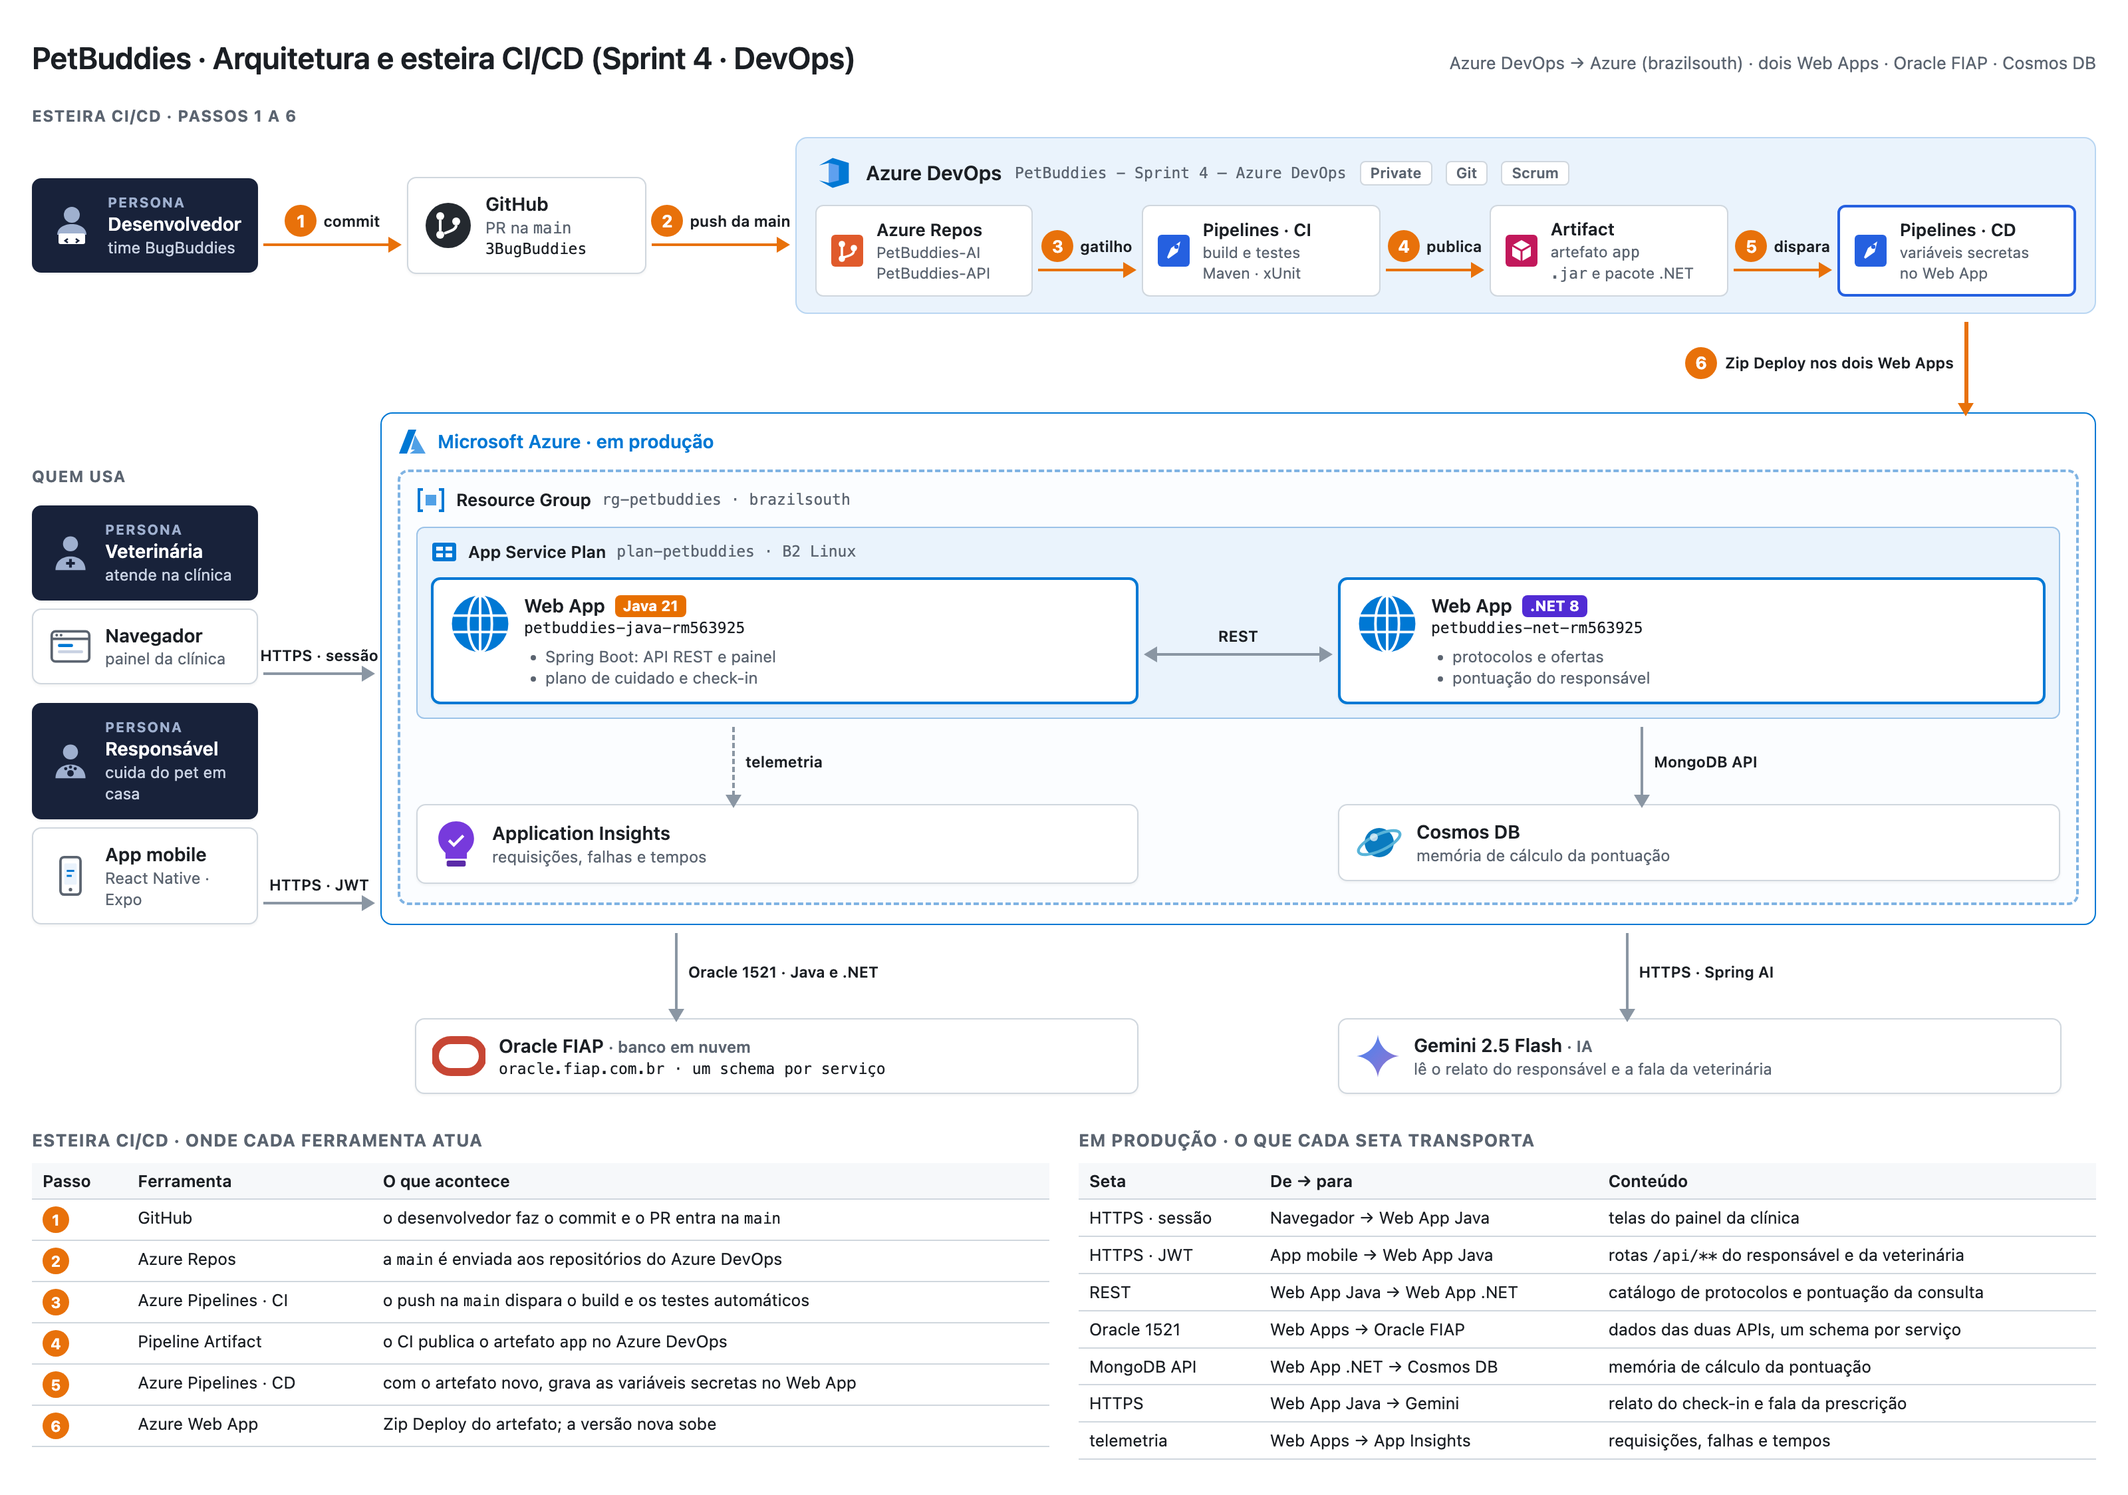
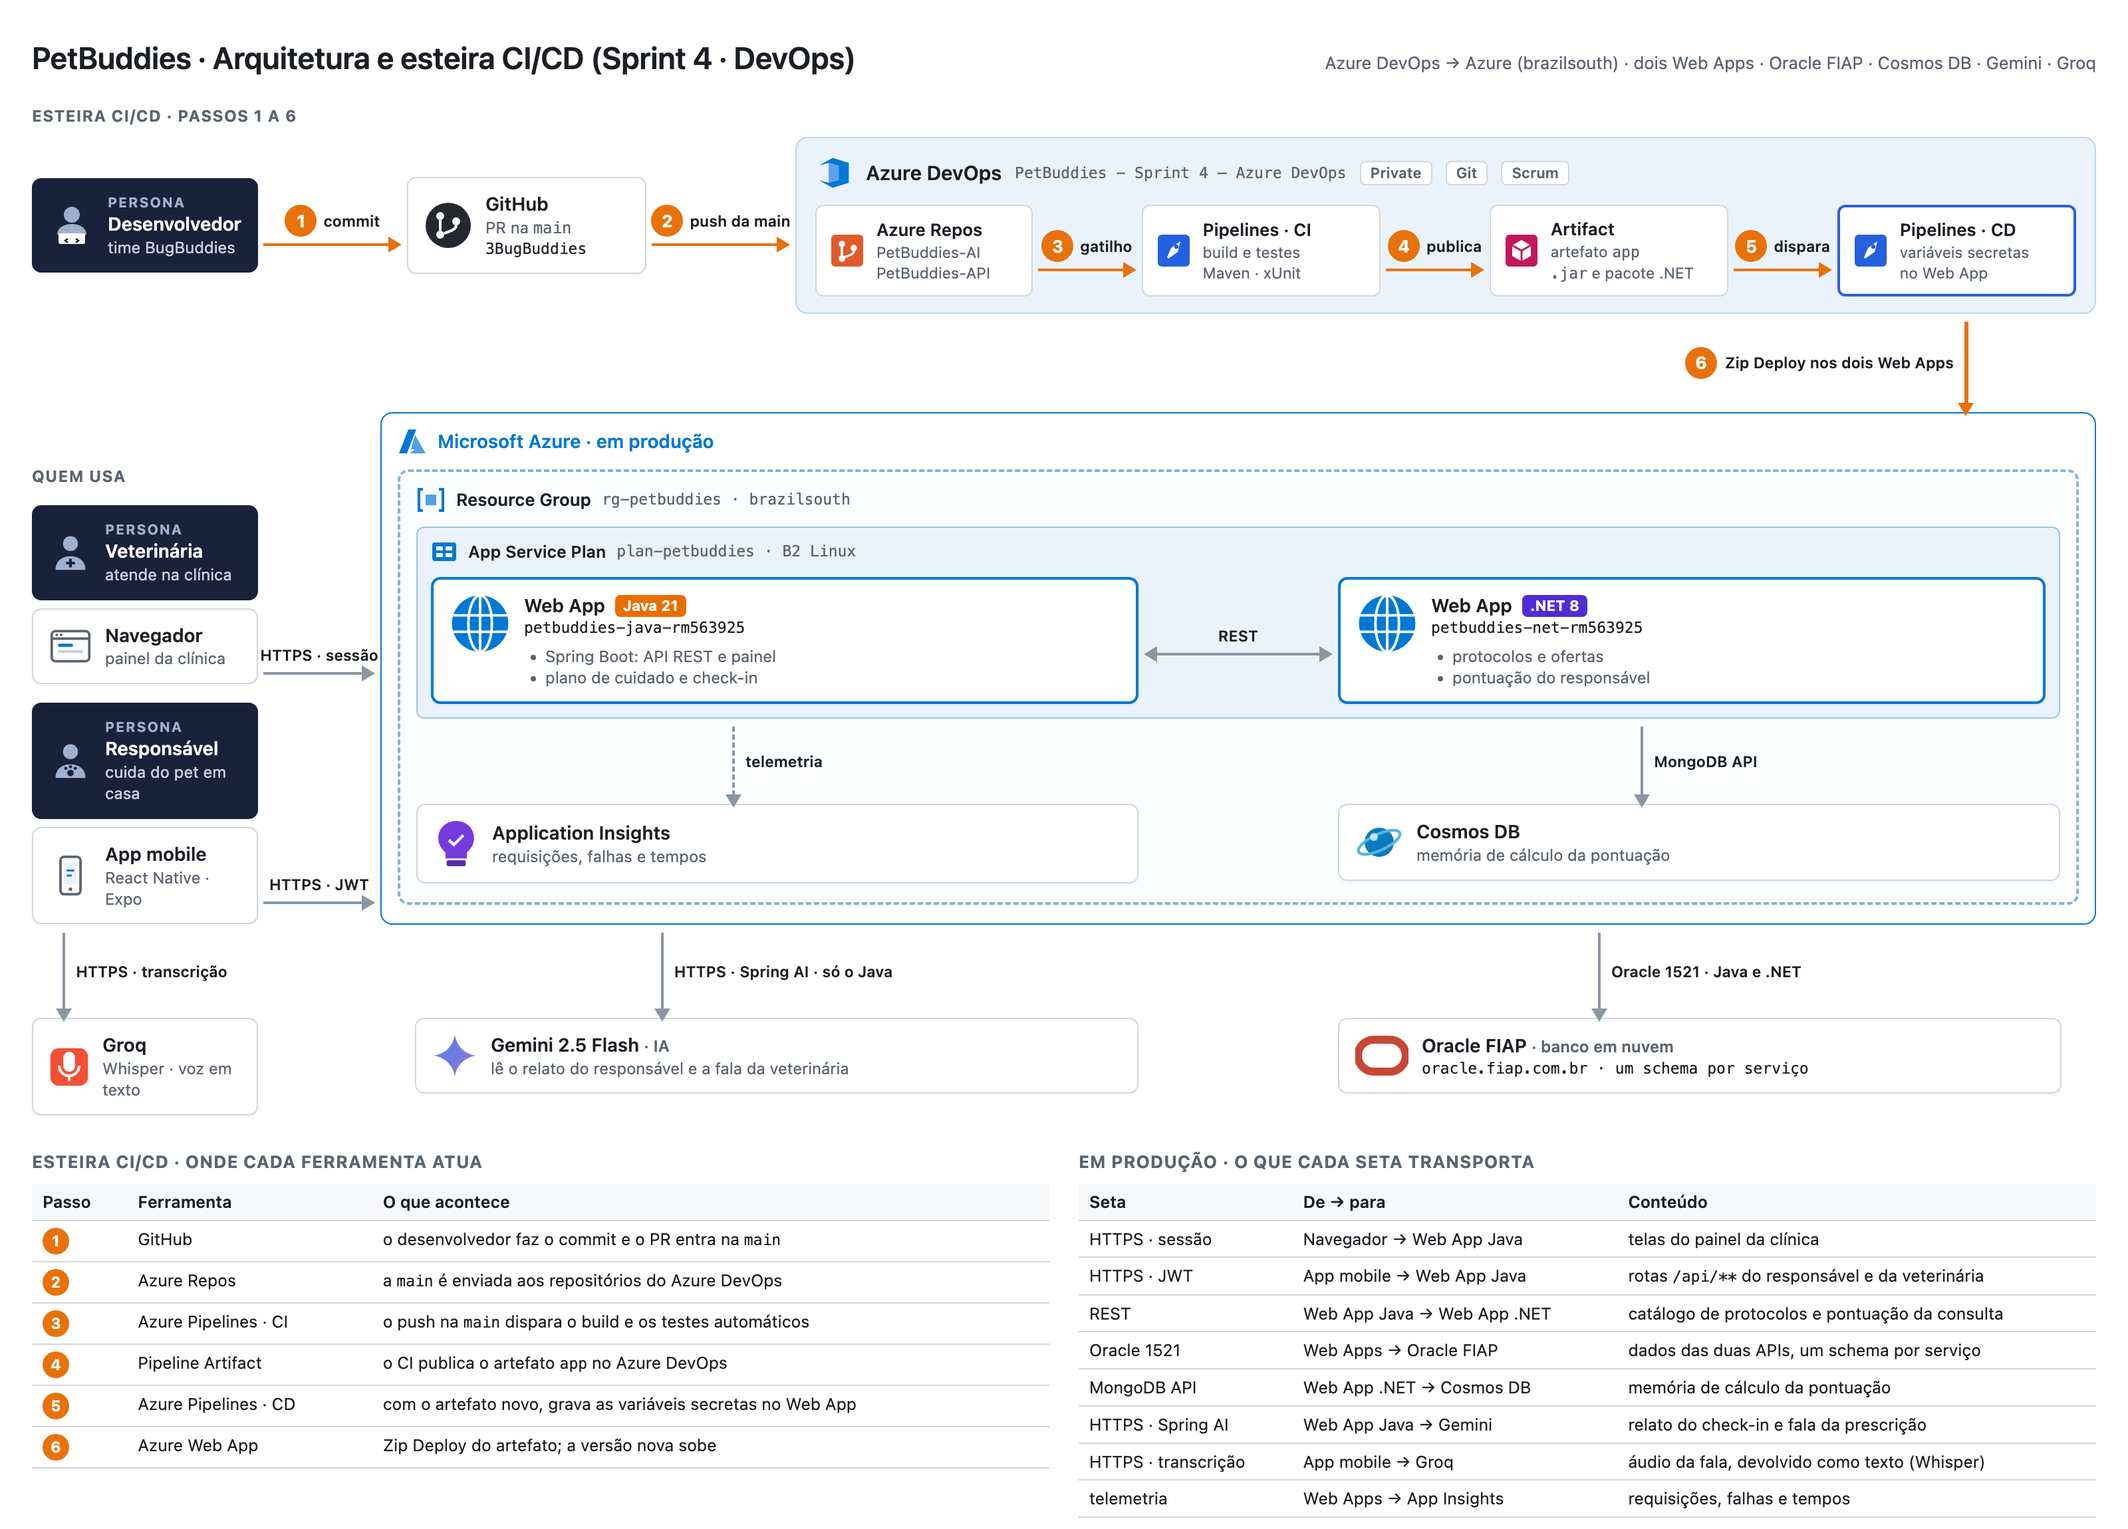
docs: seções da CP6 no README, Groq no diagrama e seta do Gemini saindo do Java

diff --git a/docs/arquitetura/arquitetura-devops.html b/docs/arquitetura/arquitetura-devops.html
@@ -143,7 +143,7 @@
 <div class="page">
   <header>
     <h1>PetBuddies · Arquitetura e esteira CI/CD (Sprint 4 · DevOps)</h1>
-    <p>Azure DevOps → Azure (brazilsouth) · dois Web Apps · Oracle FIAP · Cosmos DB</p>
+    <p>Azure DevOps → Azure (brazilsouth) · dois Web Apps · Oracle FIAP · Cosmos DB · Gemini · Groq</p>
   </header>
 
   <!-- ===== FAIXA 1: ESTEIRA ===== -->
@@ -368,27 +368,38 @@
 
   <!-- ===== FORA DA AZURE ===== -->
   <div class="out">
-    <div></div><div></div>
+    <div>
+      <div class="varrow" style="height:70px;"><div class="ln"></div><div class="lbl">HTTPS · transcrição</div></div>
+      <div class="card">
+        <svg width="30" height="30" viewBox="0 0 34 34" aria-hidden="true">
+          <rect x="1" y="1" width="32" height="32" rx="7" fill="#F55036"/>
+          <path d="M12 9a5 5 0 0 1 10 0v7a5 5 0 0 1-10 0z" fill="#fff"/>
+          <path d="M8.5 16a8.5 8.5 0 0 0 17 0M17 25v4" stroke="#fff" stroke-width="2.2" fill="none"/>
+        </svg>
+        <div><div class="t">Groq</div><div class="s">Whisper · voz em texto</div></div>
+      </div>
+    </div>
+    <div></div>
     <div>
       <div class="out-arrows">
-        <div class="varrow"><div class="ln"></div><div class="lbl">Oracle 1521 · Java e .NET</div></div>
+        <div class="varrow"><div class="ln"></div><div class="lbl">HTTPS · Spring AI · só o Java</div></div>
         <div></div>
-        <div class="varrow"><div class="ln"></div><div class="lbl">HTTPS · Spring AI</div></div>
+        <div class="varrow"><div class="ln"></div><div class="lbl">Oracle 1521 · Java e .NET</div></div>
       </div>
       <div class="out-row">
-        <div class="card">
-          <svg width="40" height="30" viewBox="0 0 40 30" aria-hidden="true">
-            <rect x="2" y="3" width="36" height="24" rx="12" fill="none" stroke="#C74634" stroke-width="6"/>
-          </svg>
-          <div><div class="t">Oracle FIAP <span class="s">· banco em nuvem</span></div><div class="n">oracle.fiap.com.br · um schema por serviço</div></div>
-        </div>
-        <div></div>
         <div class="card">
           <svg width="34" height="34" viewBox="0 0 34 34" aria-hidden="true">
             <defs><linearGradient id="gm" x1="0" y1="0" x2="1" y2="1"><stop offset="0" stop-color="#4285F4"/><stop offset="1" stop-color="#9B72CB"/></linearGradient></defs>
             <path d="M17 1c1 8.5 7.5 15 16 16-8.5 1-15 7.5-16 16-1-8.5-7.5-15-16-16 8.5-1 15-7.5 16-16z" fill="url(#gm)"/>
           </svg>
           <div><div class="t">Gemini 2.5 Flash <span class="s">· IA</span></div><div class="s">lê o relato do responsável e a fala da veterinária</div></div>
+        </div>
+        <div></div>
+        <div class="card">
+          <svg width="40" height="30" viewBox="0 0 40 30" aria-hidden="true">
+            <rect x="2" y="3" width="36" height="24" rx="12" fill="none" stroke="#C74634" stroke-width="6"/>
+          </svg>
+          <div><div class="t">Oracle FIAP <span class="s">· banco em nuvem</span></div><div class="n">oracle.fiap.com.br · um schema por serviço</div></div>
         </div>
       </div>
     </div>
@@ -417,7 +428,8 @@
         <tr><td>REST</td><td>Web App Java → Web App .NET</td><td>catálogo de protocolos e pontuação da consulta</td></tr>
         <tr><td>Oracle 1521</td><td>Web Apps → Oracle FIAP</td><td>dados das duas APIs, um schema por serviço</td></tr>
         <tr><td>MongoDB API</td><td>Web App .NET → Cosmos DB</td><td>memória de cálculo da pontuação</td></tr>
-        <tr><td>HTTPS</td><td>Web App Java → Gemini</td><td>relato do check-in e fala da prescrição</td></tr>
+        <tr><td>HTTPS · Spring AI</td><td>Web App Java → Gemini</td><td>relato do check-in e fala da prescrição</td></tr>
+        <tr><td>HTTPS · transcrição</td><td>App mobile → Groq</td><td>áudio da fala, devolvido como texto (Whisper)</td></tr>
         <tr><td>telemetria</td><td>Web Apps → App Insights</td><td>requisições, falhas e tempos</td></tr>
       </table>
     </div>

diff --git a/README.md b/README.md
@@ -42,7 +42,11 @@ são feitos pelo [`azure-pipelines.yml`](azure-pipelines.yml), que dispara a cad
 5. [Acesso do professor](#5-acesso-do-professor)
 6. [Pipelines CI/CD](#6-pipelines-cicd)
 7. [Recursos na Azure](#7-recursos-na-azure)
-8. [Evidência do CRUD no banco](#8-evidência-do-crud-no-banco)
+8. [How To · deploy na Azure](#8-how-to--deploy-na-azure)
+9. [Testes](#9-testes)
+10. [CRUD do Responsável](#10-crud-do-responsável)
+11. [Evidência do CRUD no banco](#11-evidência-do-crud-no-banco)
+12. [Credenciais de teste](#12-credenciais-de-teste)
 
 ---
 
@@ -62,13 +66,34 @@ conduta que a veterinária deixou assinada.
 | Camada | Tecnologia |
 |--------|------------|
 | Aplicação (este repositório) | Java 21, Spring Boot 3.4.5, Spring Data JPA, Spring Security com JWT, Thymeleaf, Flyway |
-| IA | Spring AI com Gemini 2.5 Flash |
+| IA | Spring AI com Gemini 2.5 Flash (Java); Groq Whisper para a transcrição de voz (app mobile) |
 | Serviço parceiro | `PetBuddies-API` em .NET 8, num segundo Web App |
 | Banco | Oracle da FIAP (as duas APIs) e Cosmos DB com a API do MongoDB (pontuação do .NET) |
 | Nuvem | Azure Web App Linux, App Service Plan B2, Application Insights, região brazilsouth |
 | DevOps | Azure DevOps: Boards (Scrum), Azure Repos, Azure Pipelines em YAML, Pipeline Artifacts |
 | Testes | JUnit 5 com Maven no Java; xUnit com `dotnet test` no .NET |
 | Clientes | navegador (painel da clínica) e app mobile em React Native com Expo |
+
+### Estrutura do repositório
+
+```
+PetBuddies-AI/
+├── azure-pipelines.yml          pipeline CI/CD (estágios CI e CD)
+├── infra/
+│   └── infra-app.sh             cria os recursos do Java na Azure (rodar uma vez)
+├── docs/
+│   ├── arquitetura/             fonte do desenho de arquitetura
+│   ├── banco/                   scripts Oracle (DDL, carga, pacotes)
+│   └── postman/                 coleção do Postman
+├── assets/figuras/              imagens do README
+├── Dockerfile · docker-compose.yml   Oracle local e a aplicação em container
+├── .env.example                 modelo das variáveis locais
+├── pom.xml
+└── src/
+    ├── main/java/…/petbuddies/  controllers, services, entidades, repositórios, segurança
+    ├── main/resources/          application.yml, migrations do Flyway e telas Thymeleaf
+    └── test/java/…/petbuddies/  testes unitários (JUnit)
+```
 
 ---
 
@@ -95,7 +120,8 @@ A figura do topo mostra a esteira e a produção. Fonte do desenho:
 - O Web App Java grava no **Oracle FIAP**, chama o **Gemini** pelo Spring AI e consulta o Web App .NET por REST
   (catálogo de protocolos e pontuação).
 - O Web App .NET usa o Oracle FIAP e o **Cosmos DB**, onde guarda a memória de cálculo da pontuação.
-- Os dois Web Apps mandam requisições, falhas e tempos ao **Application Insights**.
+- O app mobile manda o áudio da fala ao **Groq** (Whisper), que devolve o texto.
+- Cada Web App manda requisições, falhas e tempos ao próprio **Application Insights**.
 
 ---
 
@@ -118,7 +144,7 @@ O Cosmos DB (API do MongoDB) é um armazenamento auxiliar do serviço .NET, só 
 | Campo | Valor |
 |-------|-------|
 | Project name | PetBuddies - Sprint 4 – Azure DevOps |
-| Description | Projeto para entrega da Sprint 4 do professor João Menck, com os integrantes no formato `<RM> - <nome> - <turma>` |
+| Description | Projeto para entrega da Sprint 4 do professor João Menck<br>RM565339 - Felipe Yuiti Ishii - 2TDSR<br>RM563925 - Gabriel Nogueira Peixoto - 2TDSR<br>RM566154 - Giovanna Neri dos Santos - 2TDSR<br>RM565834 - Mariana Inoue - 2TDSR |
 | Visibility | Private |
 | Version control | Git |
 | Work item process | Scrum |
@@ -152,8 +178,9 @@ Arquivo: [`azure-pipelines.yml`](azure-pipelines.yml), no modo YAML. Agente `ubu
 Os resultados dos testes aparecem na aba **Tests** da execução, e o artefato `app` na aba **Artifacts**.
 
 A pipeline `petbuddies-net` do repositório `PetBuddies-API` segue o mesmo desenho: gatilho na `main`, CI com
-`dotnet build`, `dotnet test` e artefato publicado, e CD no environment `petbuddies-net` com Zip Deploy no Web App
-`petbuddies-net-rm563925`.
+`dotnet build`, `dotnet test` (xUnit) e artefato publicado, e CD no environment `petbuddies-net` com Zip Deploy no Web
+App `petbuddies-net-rm563925`. As variáveis secretas dela são `ORACLE_USER`, `ORACLE_PASS`, `PETBUDDIES_JWT_SECRET` e
+`MONGODB_CONNECTION_STRING`.
 
 ### Regras da pipeline
 
@@ -188,22 +215,124 @@ O pool de conexões (`SPRING_DATASOURCE_HIKARI_*`), o fuso (`TZ`) e o tempo de s
 
 ## 7. Recursos na Azure
 
+Script: [`infra/infra-app.sh`](infra/infra-app.sh), para o lado Java. O Web App do .NET e o Cosmos DB são criados pelo
+repositório `PetBuddies-API` e usam o mesmo resource group e o mesmo plano.
+
 | Recurso | Nome | SKU | Região |
 |---------|------|-----|--------|
 | Resource Group | `rg-petbuddies` | — | brazilsouth |
 | App Service Plan | `plan-petbuddies` | B2 Linux | brazilsouth |
-| Web App (Java) | `petbuddies-java-rm563925` | Java 21 | brazilsouth |
+| Web App (Java) | `petbuddies-java-rm563925` | `JAVA:21-java21` | brazilsouth |
+| Application Insights (Java) | `ai-petbuddies-java` | web | brazilsouth |
 | Web App (.NET) | `petbuddies-net-rm563925` | .NET 8 | brazilsouth |
-| Application Insights | um por Web App | — | brazilsouth |
-| Cosmos DB (API do MongoDB) | `cosmos-petbuddies-rm563925` | free tier | — |
+| Application Insights (.NET) | `ai-petbuddies-net` | web | brazilsouth |
+| Cosmos DB (API do MongoDB 4.2) | `cosmos-petbuddies-rm563925` | free tier | brazilsouth |
 | Banco | Oracle da FIAP | — | fora da Azure |
+
+O script:
+
+- registra os providers `Microsoft.Web`, `Microsoft.Insights` e `Microsoft.OperationalInsights`;
+- cria o resource group, o Application Insights, o plano Linux e o Web App Java 21, com o Always On ligado;
+- grava no Web App só as app settings do Application Insights, que não são segredo;
+- conecta o Web App ao Application Insights.
+
+O script cria o plano em B1. Em produção, o plano roda em B2.
+
+Banco, Gemini, JWT e a URL do .NET não ficam no script: a pipeline grava esses valores a partir das variáveis secretas.
 
 ---
 
-## 8. Evidência do CRUD no banco
+## 8. How To · deploy na Azure
 
-O CRUD do vídeo é o do **Responsável**: pelo painel (tela **Responsáveis**) ou pela API em `/api/responsavel`
-(`GET`, `GET /{id}`, `POST`, `PUT /{id}`, `DELETE /{id}`). Cada operação é conferida com um SELECT no Oracle da FIAP,
+Pré-requisitos: Azure CLI, acesso à assinatura e ao projeto do Azure DevOps.
+
+**1. Entrar na assinatura certa**
+
+```bash
+az login
+az account show
+az account set --subscription "<nome-da-assinatura>"   # se precisar trocar
+```
+
+**2. Criar a infraestrutura (uma vez)**
+
+```bash
+bash infra/infra-app.sh
+```
+
+**3. Criar a service connection**
+
+Azure DevOps → Project settings → Service connections → New service connection → Azure Resource Manager.
+Escopo: assinatura. Nome: `sc-petbuddies-azure`.
+
+**4. Criar a pipeline**
+
+Pipelines → New pipeline → Azure Repos Git → repositório `PetBuddies-AI` → *Existing Azure Pipelines YAML file* →
+`/azure-pipelines.yml`.
+
+**5. Cadastrar as variáveis**
+
+Edit → Variables. Cadastre `NOME_WEBAPP`, `ORACLE_URL` e `PETNETAPI_URL`. Cadastre como secretas ("Keep this value
+secret"): `ORACLE_USER`, `ORACLE_PASSWORD`, `GEMINI_API_KEY` e `PETBUDDIES_JWT_SECRET`. A tabela está em
+[Variáveis da pipeline](#variáveis-da-pipeline).
+
+**6. Rodar a pipeline**
+
+Faça um push na `main` ou clique em Run pipeline. O estágio CI compila e roda os testes (aba **Tests**) e publica o
+artefato (aba **Artifacts**). O estágio CD publica no Web App. Na primeira execução, autorize o uso da service
+connection e do environment `petbuddies-java`, se o Azure DevOps pedir.
+
+**7. Acessar o app**
+
+https://petbuddies-java-rm563925.azurewebsites.net
+
+Na primeira subida, o Flyway cria as tabelas no Oracle e semeia os dados de demonstração. `GET /actuator/health`
+responde `UP` quando o banco está no ar.
+
+---
+
+## 9. Testes
+
+`mvn test` roda os testes unitários (JUnit 5, sem banco e sem rede), em `src/test/java/`: o resumo do cuidado e o
+cálculo da pontuação do responsável, e a exportação do dataset. A pipeline roda os mesmos testes no `clean package` e
+publica o resultado na aba **Tests**, com o título "Testes de Código".
+
+---
+
+## 10. CRUD do Responsável
+
+Base URL: `https://petbuddies-java-rm563925.azurewebsites.net`. Autenticação: `POST /api/auth/login` devolve o token;
+as demais rotas usam `Authorization: Bearer <token>`. O mesmo CRUD está no painel, na tela **Responsáveis**.
+
+| Método | Rota | Descrição |
+|--------|------|-----------|
+| `POST` | `/api/auth/login` | devolve o token JWT |
+| `GET` | `/api/responsavel?nome=` | lista os responsáveis, com filtro opcional por nome |
+| `GET` | `/api/responsavel/{id}` | busca por id |
+| `POST` | `/api/responsavel` | cria (201) |
+| `PUT` | `/api/responsavel/{id}` | atualiza (200) |
+| `DELETE` | `/api/responsavel/{id}` | exclui (204) |
+
+Corpo do login:
+
+```json
+{ "login": "ana@clinica.com", "senha": "petbuddies123" }
+```
+
+Corpo do `POST` e do `PUT`:
+
+```json
+{ "nome": "Marina Souza", "telefone": "11988887777", "email": "marina@email.com", "endereco": "Rua Augusta, 1500, São Paulo" }
+```
+
+A coleção do Postman com todas as rotas está em
+[`docs/postman/petbuddies-ai-java.postman_collection.json`](docs/postman/petbuddies-ai-java.postman_collection.json).
+
+---
+
+## 11. Evidência do CRUD no banco
+
+No vídeo, cada operação do [CRUD do Responsável](#10-crud-do-responsável) é conferida com um SELECT no Oracle da FIAP,
 no schema do Java.
 
 ```sql
@@ -219,11 +348,16 @@ SELECT * FROM T_PB_RESPONSAVEL WHERE ID_RESPONSAVEL = <id>;
 SELECT "version", "description", "success" FROM "flyway_schema_history" ORDER BY "installed_rank";
 ```
 
-Corpo do `POST /api/responsavel`:
+Depois do `DELETE`, o responsável some do primeiro SELECT.
 
-```json
-{ "nome": "Marina Souza", "telefone": "11988887777", "email": "marina@email.com", "endereco": "Rua Augusta, 1500, São Paulo" }
-```
+---
 
-A API exige o token do login (`POST /api/auth/login`). Os usuários de demonstração e as demais rotas estão no
+## 12. Credenciais de teste
+
+| Perfil | Login | Senha |
+|--------|-------|-------|
+| `VET` (veterinária) | `ana@clinica.com` | `petbuddies123` |
+| `TUTOR` (responsável) | `maria@email.com` | `petbuddies123` |
+
+Os dois usuários são criados pelo seed do Flyway (`V2__seed_demonstracao.sql`). As demais rotas da API estão no
 [README da `main`](https://github.com/3BugBuddies/PetBuddies-AI/blob/main/README.md).
